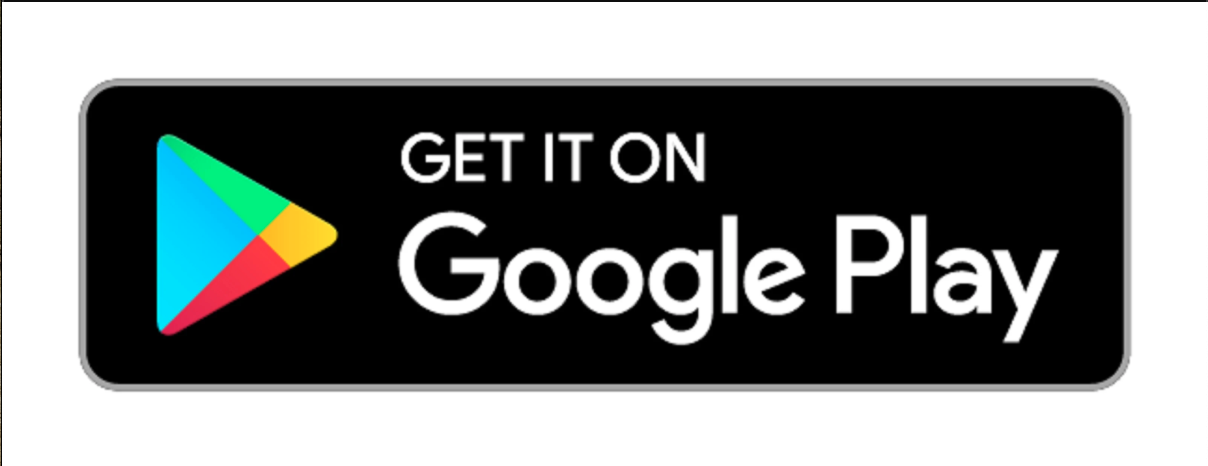
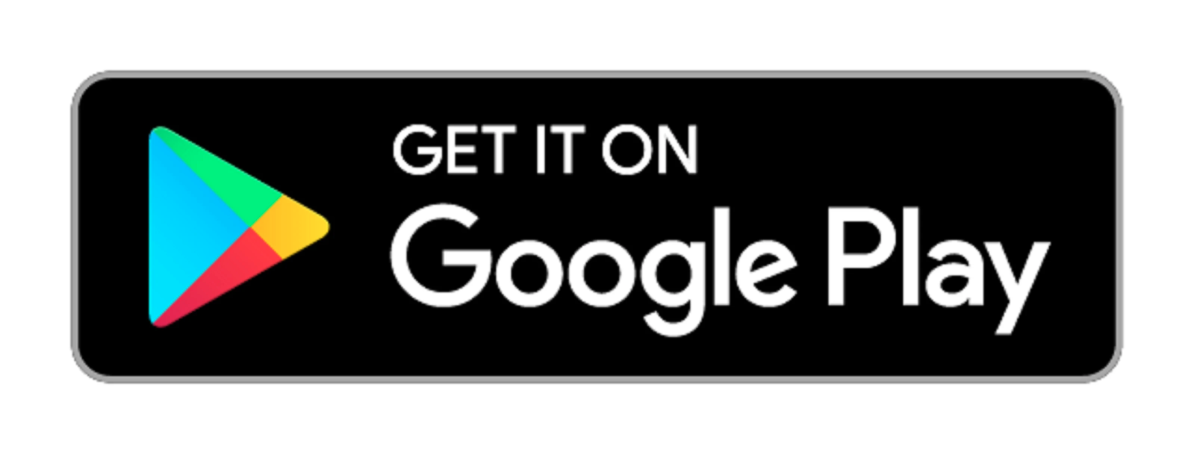
Completed fix for image alignment

diff --git a/hello.html b/hello.html
@@ -18,7 +18,7 @@
     </div>
     <div class="column">
       <a href="https://play.google.com/store/apps/details?id=com.google.android.googlequicksearchbox&hl=en">
-      <img src="play-store2.png" alt="play-store" width="100%" align:center;>
+      <img src="play-store2.png" alt="play-store" width="115%" align:center;>
       </div>
           </div>
 </html>

diff --git a/Styles.css b/Styles.css
@@ -46,4 +46,5 @@ h2 {
   clear: both;
   display: table;
 }
+
 </style>
